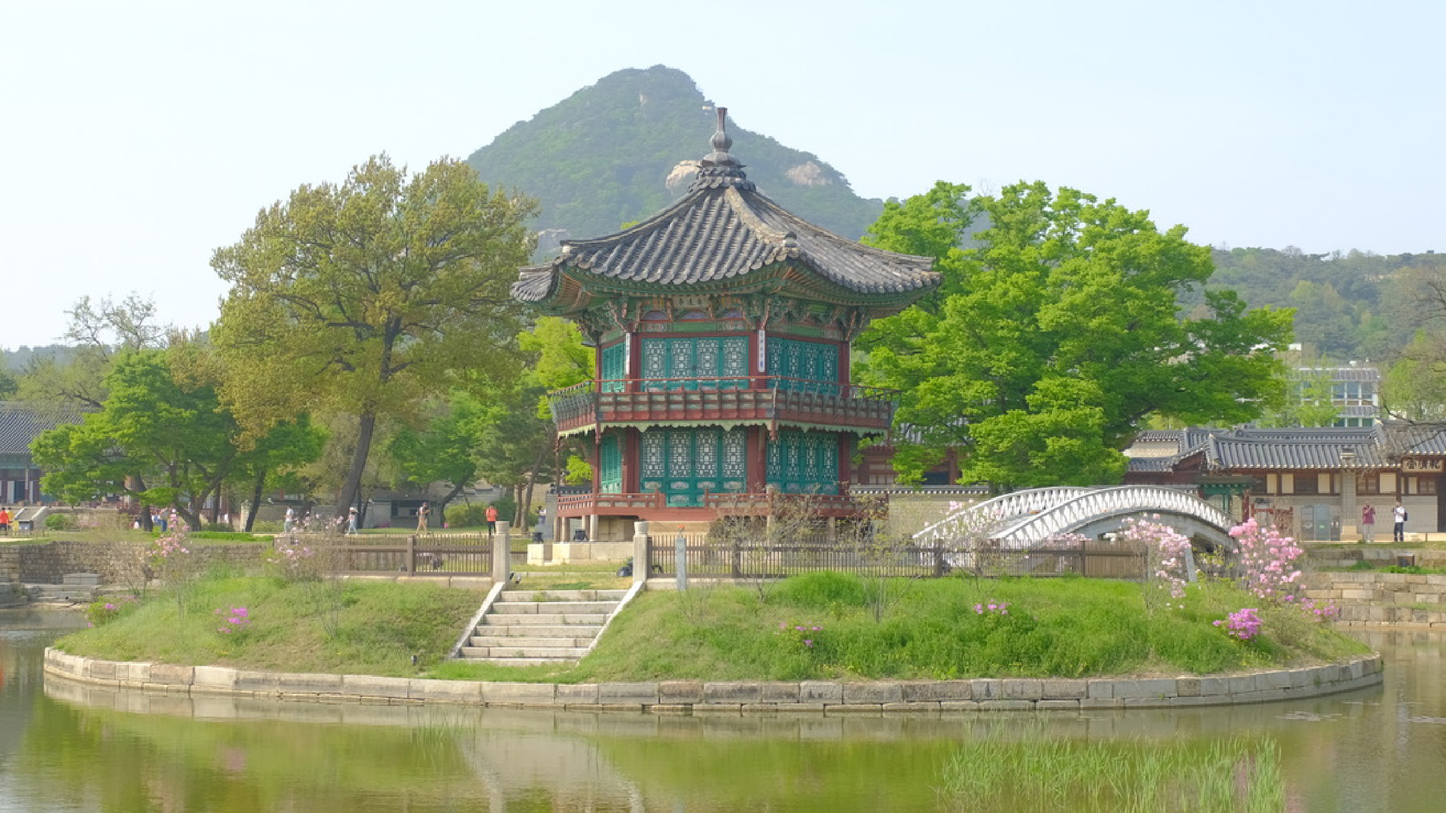
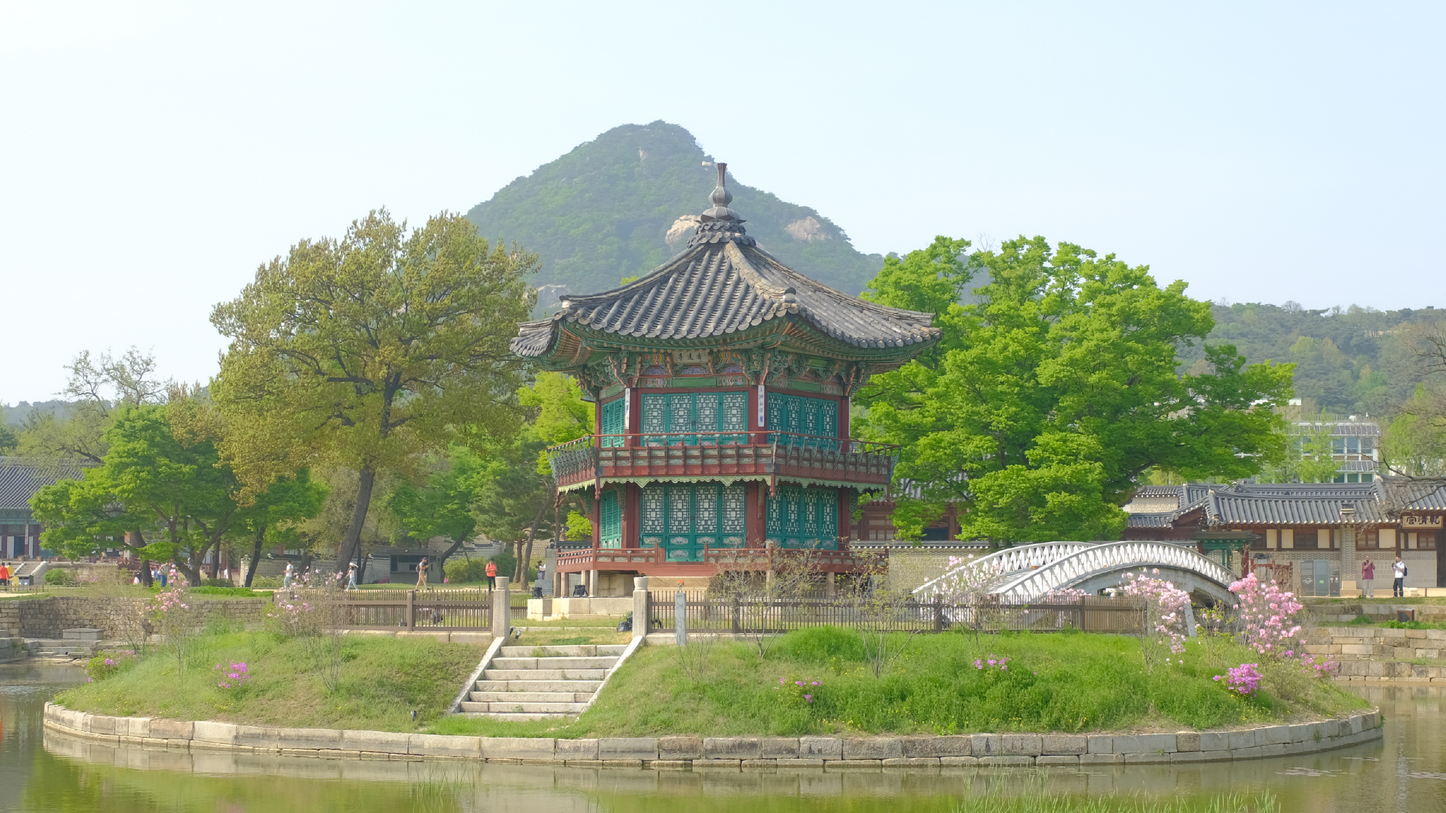
edict layout.tsx html lang=fr & edict qui-suis-je photo4

diff --git a/src/app/layout.tsx b/src/app/layout.tsx
@@ -25,7 +25,7 @@ export default function RootLayout({
   children: React.ReactNode;
 }>) {
   return (
-    <html lang="en">
+    <html lang="fr">
       <body className={`${geistSans.variable} ${geistMono.variable} antialiased`}>
         <Header />
         {children}
